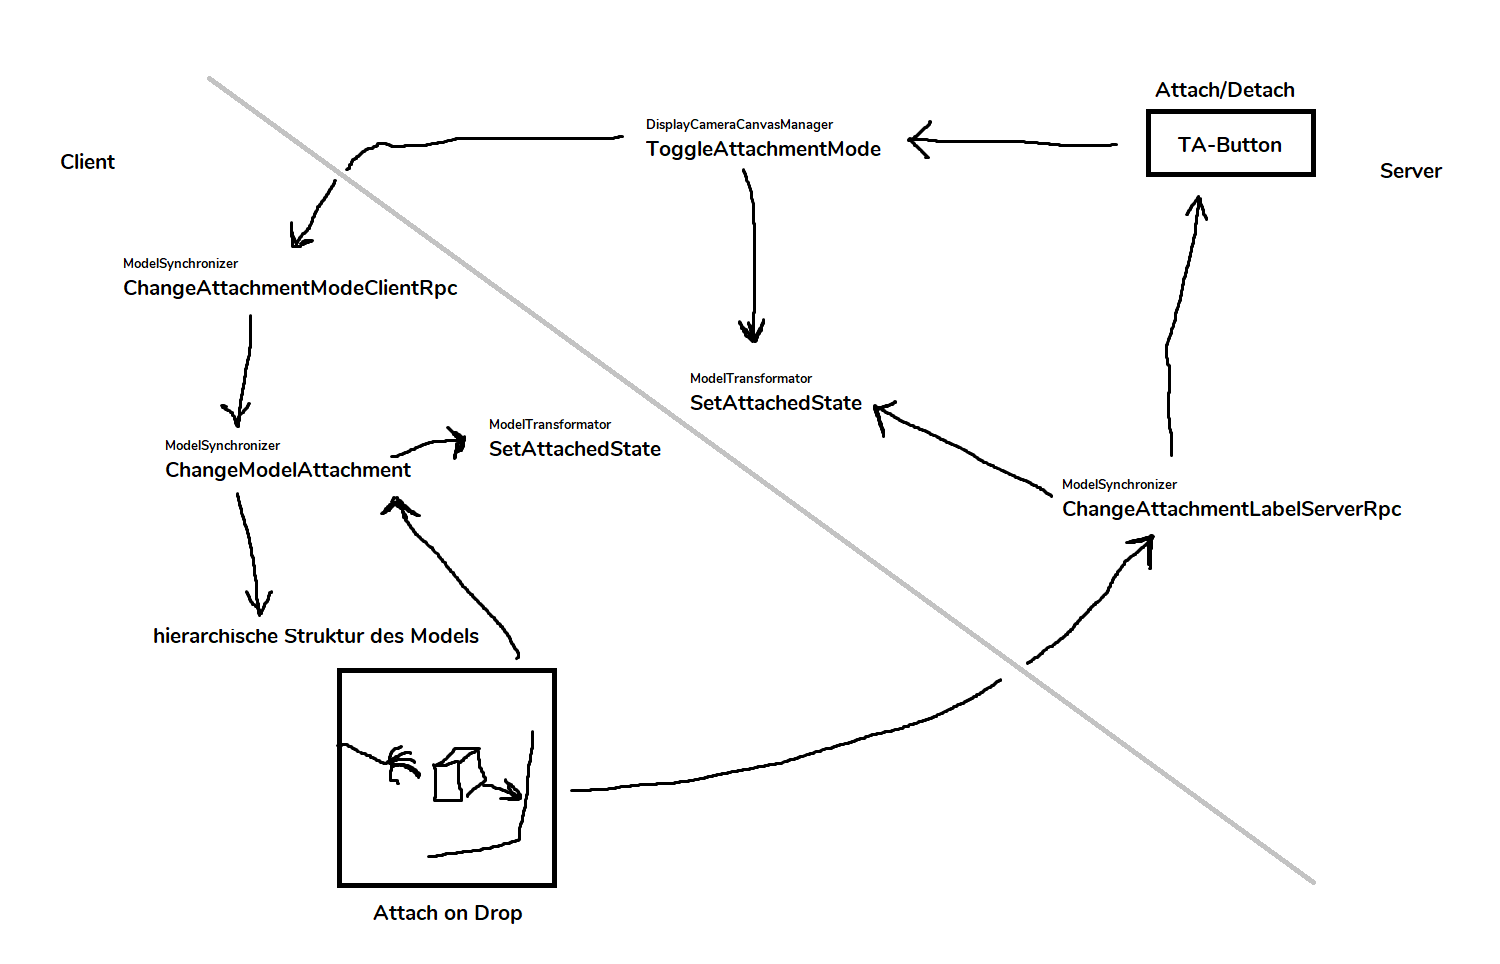
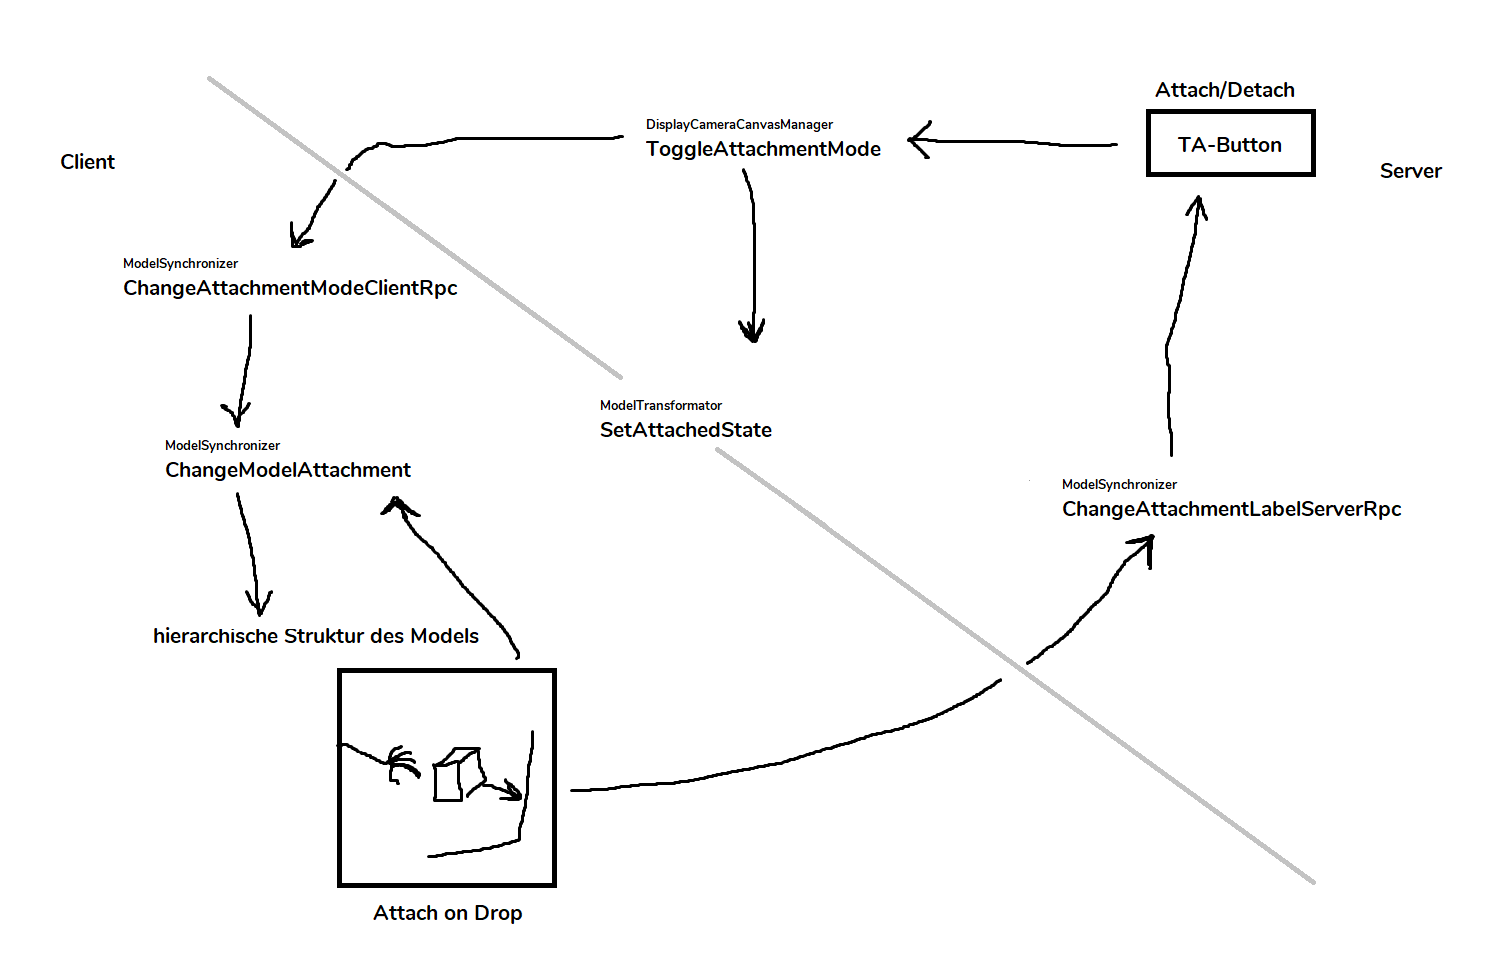
Changed attached status boolean to NetworkVariable

Changed region(s): [[0.276, 0.3734, 0.644, 0.4979], [0.644, 0.4668, 0.6747, 0.4979]]

diff --git a/VolumeViewer/Assets/Scripts/DisplayCameraCanvasManager.cs b/VolumeViewer/Assets/Scripts/DisplayCameraCanvasManager.cs
@@ -2,34 +2,37 @@ using TMPro;
 using UnityEngine;
 
 public class DisplayCameraCanvasManager : MonoBehaviour {
-    private ModelTransformator modelTransformator;
-    private ModelSynchronizer modelSynchronizer;
+    private ModelTransformator transformator;
+    private ModelSynchronizer synchronizer;
     public TextMeshProUGUI detachButtonText;
 
     public void Start() {
-        modelTransformator = GameObject.Find("ModelManager").GetComponent<ModelTransformator>();
-        modelSynchronizer = modelTransformator.currentModel.GetComponent<ModelSynchronizer>();
+        transformator = GameObject.Find("ModelManager").GetComponent<ModelTransformator>();
+        synchronizer = transformator.currentModel.GetComponent<ModelSynchronizer>();
+        synchronizer.attached.OnValueChanged += RefreshAttachmentButtonText;
         AlignCoronal();
     }
 
     public void AlignCoronal() {
-        modelTransformator.AlignCoronal();
+        transformator.AlignCoronal();
     }
 
     public void AlignSagittal() {
-        modelTransformator.AlignSagittal();
+        transformator.AlignSagittal();
     }
 
     public void AlignAxial() {
-        modelTransformator.AlignAxial();
+        transformator.AlignAxial();
     }
 
     public void ToggleAttachmentMode() {
-        bool attached = !modelTransformator.attached;
-        modelTransformator.SetAttachedState(attached);
-        modelSynchronizer.ChangeAttachmentModeClientRpc(attached);
+        bool attached = !synchronizer.attached.Value;
+        transformator.SetAttachedState(attached);
+        synchronizer.ChangeAttachmentModeClientRpc(attached);
+    }
 
-        if (attached) {
+    private void RefreshAttachmentButtonText(bool prev, bool current) {
+        if (synchronizer.attached.Value) {
             detachButtonText.text = "Detach";
         } else {
             detachButtonText.text = "Attach";

diff --git a/VolumeViewer/Assets/Scripts/ModelSynchronizer.cs b/VolumeViewer/Assets/Scripts/ModelSynchronizer.cs
@@ -1,12 +1,12 @@
 using TMPro;
 using Unity.Netcode;
-using UnityEditor.Experimental.GraphView;
 using UnityEngine;
 using UnityEngine.UI;
 
 public class ModelSynchronizer : NetworkBehaviour {
     private ModelTransformator transformator;
     private GameObject displayCenter;
+    public NetworkVariable<bool> attached = new NetworkVariable<bool>(true);
 
     public void Start() {
         transformator = GameObject.Find("ModelManager").GetComponent<ModelTransformator>();
@@ -24,9 +24,7 @@ public class ModelSynchronizer : NetworkBehaviour {
     }
 
     public void ChangeModelAttachment(bool attached) {
-        if (transformator.attached != attached) {
-            transformator.SetAttachedState(attached);
-
+        if (this.attached.Value != attached) {
             if (attached) {
                 GameObject modelParent = GameObject.Find("ModelParent");
                 transform.SetParent(displayCenter.transform);
@@ -39,10 +37,8 @@ public class ModelSynchronizer : NetworkBehaviour {
         }
     }
 
-    [ServerRpc(RequireOwnership = false)]
+    /*[ServerRpc(RequireOwnership = false)]
     public void ChangeAttachmentLabelServerRpc(bool attached) {
-        transformator.SetAttachedState(attached);
-
         GameObject attachmentButtonTextGO = GameObject.Find("DisplayCamera(Clone)/DisplayCanvas/AttachmentButton/Text (TMP)");
         TextMeshProUGUI attachmentButtonText = attachmentButtonTextGO.GetComponent<TextMeshProUGUI>();
         if (attached) {
@@ -50,7 +46,7 @@ public class ModelSynchronizer : NetworkBehaviour {
         } else {
             attachmentButtonText.text = "Attach";
         }
-    }
+    }*/
 
     [ServerRpc(RequireOwnership = false)]
     public void ChangeAttachmentButtonInteractabilityServerRpc(bool interactable) {

diff --git a/VolumeViewer/Assets/Scripts/ModelTransformator.cs b/VolumeViewer/Assets/Scripts/ModelTransformator.cs
@@ -2,13 +2,11 @@ using Leap;
 using Leap.Unity;
 using System.Collections;
 using UnityEngine;
-using UnityEngine.UI;
 
 public class ModelTransformator : MonoBehaviour {
     public GameObject currentModel;
     public Shader transparentShader;
     public bool isConnected = false;
-    public bool attached = true;
     public Transform displaySize;
     public float palmGrabDistance = 1.0f;
     public float oneFingerRotationDistance = 1.0f;
@@ -123,8 +121,9 @@ public class ModelTransformator : MonoBehaviour {
 
         SetAlpha(0);
         inDisplay = true;
+        SetAttachedState(true);
         synchronizer.ChangeModelAttachment(true);
-        synchronizer.ChangeAttachmentLabelServerRpc(true);
+        //synchronizer.ChangeAttachmentLabelServerRpc(true);
         synchronizer.ChangeAttachmentButtonInteractabilityServerRpc(false);
         currentModel.transform.localPosition = Vector3.zero;
     }
@@ -167,6 +166,6 @@ public class ModelTransformator : MonoBehaviour {
     }
 
     public void SetAttachedState(bool attached) {
-        this.attached = attached;
+        synchronizer.attached.Value = attached;
     }
 }
